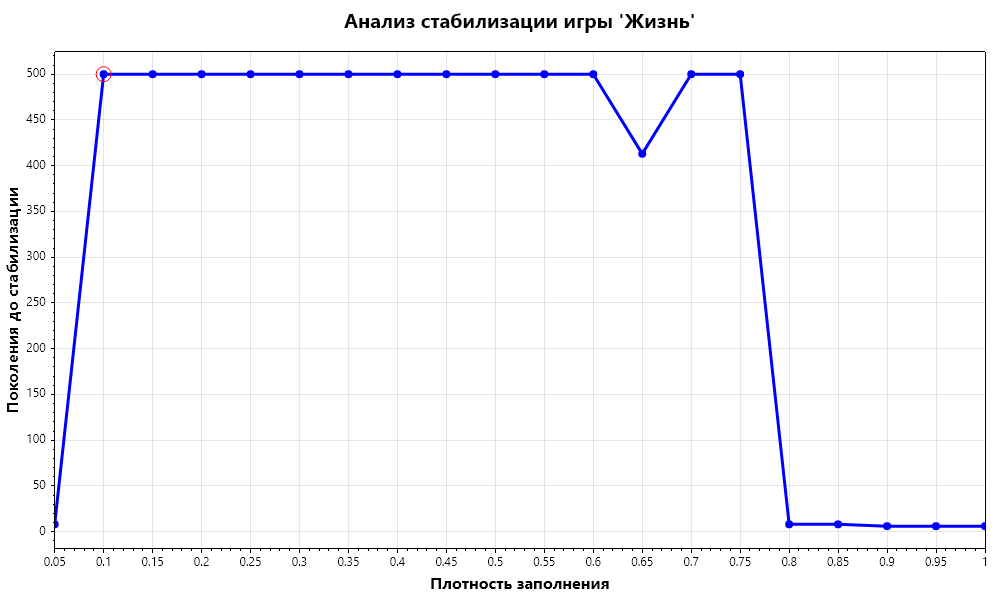
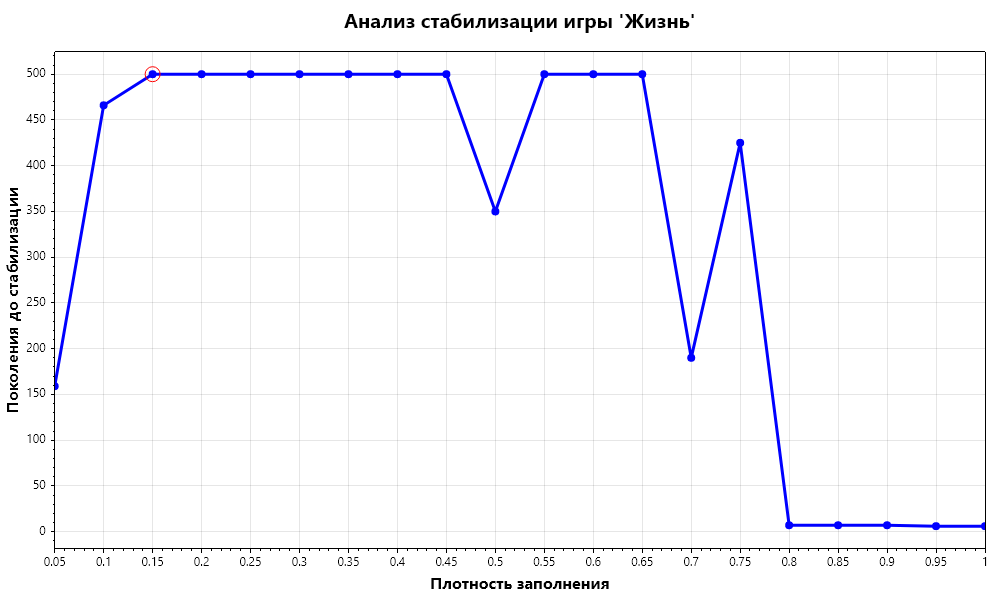
Add tests

diff --git a/LifeTest/Program.cs b/LifeTest/Program.cs
@@ -113,5 +113,47 @@ namespace LifeTest
             Assert.Greater(results[2], results[0]);
             Assert.Greater(results[2], results[4]); 
         }
+
+        [Test]
+        public void Cell_AliveWith2Neighbors_StaysAlive()
+        {
+            var cell = new Cell { IsAlive = true };
+            cell.neighbors.AddRange(Enumerable.Repeat(new Cell { IsAlive = true }, 2));
+            cell.DetermineNextLiveState();
+            Assert.IsTrue(cell.IsAliveNext);
+        }
+
+        [Test]
+        public void Cell_AliveWith3Neighbors_StaysAlive()
+        {
+            var cell = new Cell { IsAlive = true };
+            cell.neighbors.AddRange(Enumerable.Repeat(new Cell { IsAlive = true }, 3));
+            cell.DetermineNextLiveState();
+            Assert.IsTrue(cell.IsAliveNext);
+        }
+
+        [Test]
+        public void Board_EmptyBoard_NoAliveCells()
+        {
+            var board = new Board(10, 10, 1, 0);
+            Assert.AreEqual(0, board.CountAliveCells());
+        }
+
+        [Test]
+        public void Board_FullBoard_AllCellsAlive()
+        {
+            var board = new Board(10, 10, 1, 1.0);
+            Assert.AreEqual(100, board.CountAliveCells());
+        }
+
+        [Test]
+        public void Board_Advance_ChangesState()
+        {
+            var board = new Board(10, 10, 1, 0.5);
+            int before = board.CountAliveCells();
+            board.Advance();
+            int after = board.CountAliveCells();
+            Assert.AreNotEqual(before, after);
+        }
     }
 }

diff --git a/LifeTest/obj/Debug/netcoreapp8.0/LifeTest.AssemblyInfo.cs b/LifeTest/obj/Debug/netcoreapp8.0/LifeTest.AssemblyInfo.cs
@@ -13,7 +13,7 @@ using System.Reflection;
 [assembly: System.Reflection.AssemblyCompanyAttribute("LifeTest")]
 [assembly: System.Reflection.AssemblyConfigurationAttribute("Debug")]
 [assembly: System.Reflection.AssemblyFileVersionAttribute("1.0.0.0")]
-[assembly: System.Reflection.AssemblyInformationalVersionAttribute("1.0.0+e6227b25502ec0829f68796ab9b994d65ae01732")]
+[assembly: System.Reflection.AssemblyInformationalVersionAttribute("1.0.0+862d4216f40c726713eecebc0618d0336e2d4efd")]
 [assembly: System.Reflection.AssemblyProductAttribute("LifeTest")]
 [assembly: System.Reflection.AssemblyTitleAttribute("LifeTest")]
 [assembly: System.Reflection.AssemblyVersionAttribute("1.0.0.0")]

diff --git a/Life/obj/Debug/netcoreapp8.0/Life.AssemblyInfo.cs b/Life/obj/Debug/netcoreapp8.0/Life.AssemblyInfo.cs
@@ -13,7 +13,7 @@ using System.Reflection;
 [assembly: System.Reflection.AssemblyCompanyAttribute("Life")]
 [assembly: System.Reflection.AssemblyConfigurationAttribute("Debug")]
 [assembly: System.Reflection.AssemblyFileVersionAttribute("1.0.0.0")]
-[assembly: System.Reflection.AssemblyInformationalVersionAttribute("1.0.0+e6227b25502ec0829f68796ab9b994d65ae01732")]
+[assembly: System.Reflection.AssemblyInformationalVersionAttribute("1.0.0+862d4216f40c726713eecebc0618d0336e2d4efd")]
 [assembly: System.Reflection.AssemblyProductAttribute("Life")]
 [assembly: System.Reflection.AssemblyTitleAttribute("Life")]
 [assembly: System.Reflection.AssemblyVersionAttribute("1.0.0.0")]
